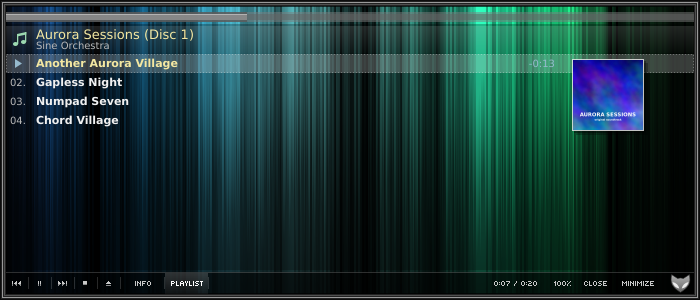
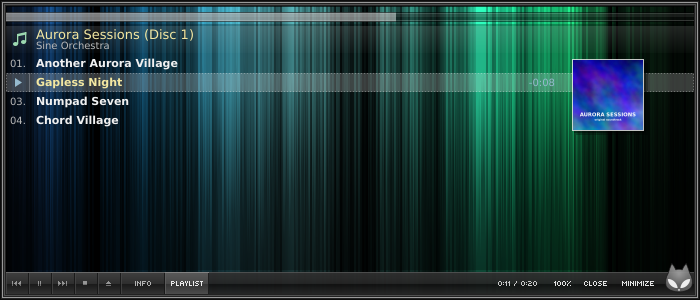
Skin: glass button row and seek bar, bigger alien cat
- Button row and tiles in the skin's glass look: light top edge, an
  upper half darkening downwards, a sharp step in the middle and a lower
  half brightening again, light/dark separator lines; grey levels taken
  from the reference screenshot. Hover brightens the tile.
- Seek bar as a translucent glass strip, the played part in light grey
- The alien cat redrawn after the skin's 25x22 design (pointed ears,
  wide head, big slanted eyes, small mouth), larger and sticking out of
  the row; it fades when hovered

Claude-Session: https://claude.ai/code/session_015BRbPGubUmtxsC6CGuuWu9

Changed region(s): [[0.0, 0.18, 1.0, 0.33], [0.0, 0.87, 1.0, 0.99], [0.0, 0.03, 0.99, 0.09]]

diff --git a/src/skin/SkinView.cpp b/src/skin/SkinView.cpp
@@ -77,6 +77,39 @@ const QStringList &glyphRows(int id)
     return glyphs[std::clamp(id, 0, int(glyphs.size()) - 1)];
 }
 
+// Glass as in the skin: a light edge on top, an upper half that darkens
+// downwards, a sharp step to dark in the middle and a lower half that
+// brightens again. Values are grey levels; 'shift' brightens (hover).
+struct Glass
+{
+    int top, upperFrom, upperTo, lowerFrom, lowerTo;
+};
+constexpr Glass kTileGlass{104, 61, 46, 27, 49};  // opaque button tiles
+constexpr Glass kBarGlass{81, 48, 37, 18, 39};    // the row behind the buttons
+
+QColor grey(int v, int alpha = 255)
+{
+    v = std::clamp(v, 0, 255);
+    return QColor(v, v, v, alpha);
+}
+
+void paintGlass(QPainter &p, const QRect &r, const Glass &g, int shift = 0, int alpha = 255)
+{
+    const int h = r.height();
+    const int mid = std::max(2, int(std::lround(h * 0.545))); // row 12 of 22
+    for (int y = 0; y < h; ++y) {
+        int v;
+        if (y == 0) {
+            v = g.top;
+        } else if (y < mid) {
+            v = g.upperFrom + (g.upperTo - g.upperFrom) * (y - 1) / std::max(1, mid - 2);
+        } else {
+            v = g.lowerFrom + (g.lowerTo - g.lowerFrom) * (y - mid) / std::max(1, h - mid - 1);
+        }
+        p.fillRect(QRect(r.left(), r.top() + y, r.width(), 1), grey(v + shift, alpha));
+    }
+}
+
 } // namespace
 
 SkinView::SkinView(QWidget *parent) : QWidget(parent)
@@ -240,7 +273,8 @@ void SkinView::layoutParts()
     m_buttons.append({Info, QRect(x, y, 44, kBarH), QStringLiteral("INFO"), tr("Info")});
     x += 44;
     m_buttons.append({Playlist, QRect(x, y, 44, kBarH), QStringLiteral("PLAYLIST"), tr("Playlist")});
-    m_buttons.append({Menu, QRect(w - 32, y, 25, kBarH), QString(), tr("Menu")});
+    // The alien cat is a bit bigger than the row and sticks out above it.
+    m_buttons.append({Menu, QRect(w - 36, y - 9, 30, 29), QString(), tr("Menu")});
     m_buttons.append({Minimize, QRect(w - 80, y, 37, kBarH), QStringLiteral("MINIMIZE"), QString()});
     m_buttons.append({Close, QRect(w - 120, y, 31, kBarH), QStringLiteral("CLOSE"), QString()});
     const int vw = PixelFont::textWidth(QStringLiteral("100%")) + 12;
@@ -326,16 +360,17 @@ void SkinView::paintFrame(QPainter &p)
 
 void SkinView::paintProgress(QPainter &p)
 {
-    // A flat bar of two shades of translucent grey, light edges at the top and bottom.
+    // A glass strip: dark edges, light lines, glossy upper and darker lower half.
+    // The played part is the same glass in light grey and less transparent.
     const QRect r = m_progressRect;
-    p.fillRect(r, QColor(126, 126, 126, 128));
-    p.fillRect(r.adjusted(0, 2, 0, -2), QColor(97, 97, 97, 128));
-    if (m_progress >= 0) {
-        const int fillW = int(r.width() * std::clamp(m_progress, 0.0, 1.0));
-        const QRect fill(r.left(), r.top(), fillW, r.height());
-        p.fillRect(fill, QColor(86, 86, 86, 192));
-        p.fillRect(fill.adjusted(0, 2, 0, -2), QColor(150, 150, 150, 192));
-        p.fillRect(QRect(fill.left(), fill.top() + 2, fill.width(), 1), QColor(200, 200, 200, 170));
+    static const int track[10] = {0, 98, 45, 45, 45, 12, 12, 12, 98, 0};
+    static const int played[10] = {60, 186, 168, 168, 168, 158, 158, 158, 186, 60};
+    const int fillW = m_progress >= 0 ? int(r.width() * std::clamp(m_progress, 0.0, 1.0)) : 0;
+    for (int y = 0; y < r.height(); ++y) {
+        const int row = std::min(9, y * 10 / r.height());
+        if (fillW > 0)
+            p.fillRect(QRect(r.left(), r.top() + y, fillW, 1), grey(played[row], 190));
+        p.fillRect(QRect(r.left() + fillW, r.top() + y, r.width() - fillW, 1), grey(track[row], 128));
     }
 
     if (!m_message.isEmpty()) {
@@ -461,73 +496,84 @@ void SkinView::paintGlyph(QPainter &p, Button id, const QRect &r, const QColor &
 
 void SkinView::paintAlien(QPainter &p, const QRect &r, bool hover)
 {
-    // The "alien cat": a head with pointed ears and big leaf shaped eyes.
+    // The "alien cat", designed on the skin's 25x22 grid and scaled to 'r':
+    // pointed ears, a wide head and big eyes slanting down to the nose.
+    p.save();
     p.setRenderHint(QPainter::Antialiasing);
-    const QRectF f = QRectF(r).adjusted(2.5, 2.5, -2.5, -1.5);
-    const double cx = f.center().x();
+    p.translate(r.topLeft());
+    p.scale(r.width() / 25.0, r.height() / 22.0);
+
     QPainterPath head;
-    head.moveTo(f.left() + 1, f.top());                                  // left ear tip
-    head.lineTo(f.left() + f.width() * 0.36, f.top() + f.height() * 0.22);
-    head.quadTo(cx, f.top() + f.height() * 0.16, f.right() - f.width() * 0.36, f.top() + f.height() * 0.22);
-    head.lineTo(f.right() - 1, f.top());                                 // right ear tip
-    head.cubicTo(f.right() + 0.5, f.top() + f.height() * 0.45, f.right() - 1, f.top() + f.height() * 0.7,
-                 cx, f.bottom());
-    head.cubicTo(f.left() + 1, f.top() + f.height() * 0.7, f.left() - 0.5, f.top() + f.height() * 0.45,
-                 f.left() + 1, f.top());
-    QLinearGradient g(f.topLeft(), f.bottomLeft());
-    g.setColorAt(0, QColor(0xb8, 0xb8, 0xb8, hover ? 150 : 245));
-    g.setColorAt(1, QColor(0x6a, 0x6a, 0x6a, hover ? 120 : 245));
-    p.setPen(QPen(QColor(25, 25, 25, hover ? 120 : 200), 0.8));
+    head.moveTo(6.5, 0.3);                                // left ear tip
+    head.cubicTo(8.0, 1.8, 9.2, 3.6, 9.8, 5.2);           // inner side of the ear
+    head.quadTo(12.5, 4.4, 15.2, 5.2);                    // top of the head between the ears
+    head.cubicTo(15.8, 3.6, 17.0, 1.8, 18.5, 0.3);        // right ear tip
+    head.cubicTo(19.8, 3.0, 20.8, 5.6, 21.6, 8.0);        // outer side of the right ear
+    head.cubicTo(23.4, 10.5, 24.2, 14.5, 23.2, 17.6);     // right cheek
+    head.cubicTo(21.6, 20.6, 16.5, 22.0, 12.5, 22.0);     // chin
+    head.cubicTo(8.5, 22.0, 3.4, 20.6, 1.8, 17.6);
+    head.cubicTo(0.8, 14.5, 1.6, 10.5, 3.4, 8.0);         // left cheek
+    head.cubicTo(4.2, 5.6, 5.2, 3.0, 6.5, 0.3);
+    QLinearGradient g(0, 0, 0, 22);
+    const int a = hover ? 140 : 235; // like the original, it fades when hovered
+    g.setColorAt(0.0, grey(150, a));
+    g.setColorAt(0.5, grey(118, a));
+    g.setColorAt(1.0, grey(92, a));
+    p.setPen(QPen(grey(20, hover ? 110 : 190), 0.7));
     p.setBrush(g);
     p.drawPath(head);
-    // Eyes: light leaves slanting towards the nose.
+
+    // A soft shine on the forehead.
+    QRadialGradient shine(12.5, 8.5, 8.0);
+    shine.setColorAt(0, QColor(255, 255, 255, hover ? 40 : 60));
+    shine.setColorAt(1, QColor(255, 255, 255, 0));
     p.setPen(Qt::NoPen);
-    p.setBrush(QColor(245, 245, 245, hover ? 150 : 235));
+    p.setBrush(shine);
+    p.drawPath(head);
+
+    // Eyes: big almonds from the outer top to the nose.
+    p.setBrush(grey(242, hover ? 160 : 245));
     for (int side : {-1, 1}) {
+        auto pt = [side](double x, double y) { return QPointF(12.5 + side * (12.5 - x), y); };
         QPainterPath eye;
-        const QPointF inner(cx + side * f.width() * 0.06, f.top() + f.height() * 0.78);
-        const QPointF outer(cx + side * f.width() * 0.4, f.top() + f.height() * 0.42);
-        const QPointF mid((inner.x() + outer.x()) / 2, (inner.y() + outer.y()) / 2);
-        const QPointF normal(-(outer.y() - inner.y()) * 0.32, (outer.x() - inner.x()) * 0.32);
-        eye.moveTo(inner);
-        eye.quadTo(mid + normal, outer);
-        eye.quadTo(mid - normal, inner);
+        eye.moveTo(pt(3.2, 12.2));
+        eye.cubicTo(pt(6.5, 11.8), pt(10.8, 14.6), pt(11.4, 19.0));
+        eye.cubicTo(pt(8.0, 19.4), pt(3.4, 16.4), pt(3.2, 12.2));
         p.drawPath(eye);
     }
+    // Nose / mouth.
+    p.setBrush(grey(235, hover ? 120 : 200));
+    p.drawEllipse(QPointF(12.5, 20.4), 0.9, 0.7);
+    p.restore();
 }
 
 void SkinView::paintBar(QPainter &p)
 {
     p.setRenderHint(QPainter::Antialiasing, false);
-    // Translucent row with a light line on top.
-    p.fillRect(m_barRect, QColor(0, 0, 0, 150));
-    p.fillRect(QRect(m_barRect.left(), m_barRect.top(), m_barRect.width(), 1), QColor(255, 255, 255, 45));
+    // The row itself is glass too, slightly see-through.
+    paintGlass(p, m_barRect, kBarGlass, 0, 235);
 
     for (const ButtonRect &b : m_buttons) {
         const bool hover = b.id == m_hover;
         const bool active = (b.id == Info && m_page == InfoPage) || (b.id == Playlist && m_page == PlaylistPage);
-        if (b.id == Menu) {
-            paintAlien(p, b.rect, hover);
-            continue;
+        if (b.id == Menu)
+            continue; // drawn last, it sticks out of the row
+        const bool tile = b.id != Close && b.id != Minimize && b.id != Volume;
+        if (tile) {
+            // Glass tile with a light line on the left and a dark one on the right.
+            paintGlass(p, b.rect, kTileGlass, hover ? 26 : active ? 10 : 0);
+            p.fillRect(QRect(b.rect.left(), b.rect.top() + 1, 1, b.rect.height() - 1), grey(hover ? 96 : 70, 200));
+            p.fillRect(QRect(b.rect.right(), b.rect.top() + 1, 1, b.rect.height() - 1), grey(22, 220));
         }
-        if (b.id != Close && b.id != Minimize && b.id != Volume) {
-            // Button tiles: a soft highlight when hovered and a separator on the right.
-            if (hover || active) {
-                QLinearGradient g(b.rect.topLeft(), b.rect.bottomLeft());
-                g.setColorAt(0, QColor(255, 255, 255, hover ? 46 : 26));
-                g.setColorAt(1, QColor(255, 255, 255, hover ? 14 : 6));
-                p.fillRect(b.rect.adjusted(0, 1, -1, 0), g);
-            }
-            p.fillRect(QRect(b.rect.right(), b.rect.top() + 5, 1, kBarH - 10), QColor(255, 255, 255, 40));
-        }
-        const QColor color = hover || active ? kLabelHover : kLabelColor;
+        // Labels on the tiles are grey, the window buttons white; hover lights them up.
+        QColor color = tile ? grey(hover || active ? 235 : 178) : grey(hover ? 255 : 228);
         if (b.id == Volume) {
             const QString text = QStringLiteral("%1%").arg(m_volume);
             PixelFont::draw(p, b.rect.right() - PixelFont::textWidth(text), b.rect.top() + 9, text, color);
             continue;
         }
         if (b.text.isEmpty()) {
-            paintGlyph(p, b.id, b.rect, color);
+            paintGlyph(p, b.id, b.rect, tile ? grey(hover ? 235 : 150) : color);
             continue;
         }
         const int tw = PixelFont::textWidth(b.text);
@@ -541,8 +587,12 @@ void SkinView::paintBar(QPainter &p)
             if (b.id == Volume)
                 volume = b.rect;
         const int tw = PixelFont::textWidth(m_time);
-        PixelFont::draw(p, volume.left() - tw - 6, m_barRect.top() + 9, m_time, kLabelColor);
+        PixelFont::draw(p, volume.left() - tw - 6, m_barRect.top() + 9, m_time, grey(200));
     }
+
+    for (const ButtonRect &b : m_buttons)
+        if (b.id == Menu)
+            paintAlien(p, b.rect, b.id == m_hover);
 }
 
 // ------------------------------------------------------------------ input

diff --git a/README.md b/README.md
@@ -80,9 +80,9 @@ Lichtstreifen. Grafiken des Skins werden nicht verwendet, alles ist mit QPainter
   deckender werden.
 * **Playlist-Seite**: Gruppen je Album mit Kopfzeile (Album und Interpret aus den Ordnernamen, so müssen keine
   Tags gelesen werden), Nummernspalte, ▶/❚❚ und Restzeit beim laufenden Titel, Cover neben jeder Gruppe
-* Transparente Seekbar und Knopfreihe mit Pixelschrift: ⏮ ⏯ ⏭ ■ ⏏ (Ordner öffnen), INFO, PLAYLIST, Zeit,
-  Lautstärke (ziehen oder Mausrad), CLOSE, MINIMIZE. Die **Alien-Katze** rechts unten (oder ein Rechtsklick)
-  öffnet das Menü.
+* Seekbar und Knopfreihe in Glas-Optik (heller Rand, glänzende obere und dunklere untere Hälfte) mit Pixelschrift: ⏮ ⏯ ⏭ ■ ⏏ (Ordner öffnen), INFO, PLAYLIST, Zeit,
+  Lautstärke (ziehen oder Mausrad), CLOSE, MINIMIZE. Die **Alien-Katze** rechts unten ragt über die Leiste
+  hinaus und öffnet das Menü (ein Rechtsklick auch).
 * Fenster an einer freien Stelle verschieben, an den Kanten in der Größe ändern; jeder Look merkt sich seine
   eigene Fenstergröße.
 
